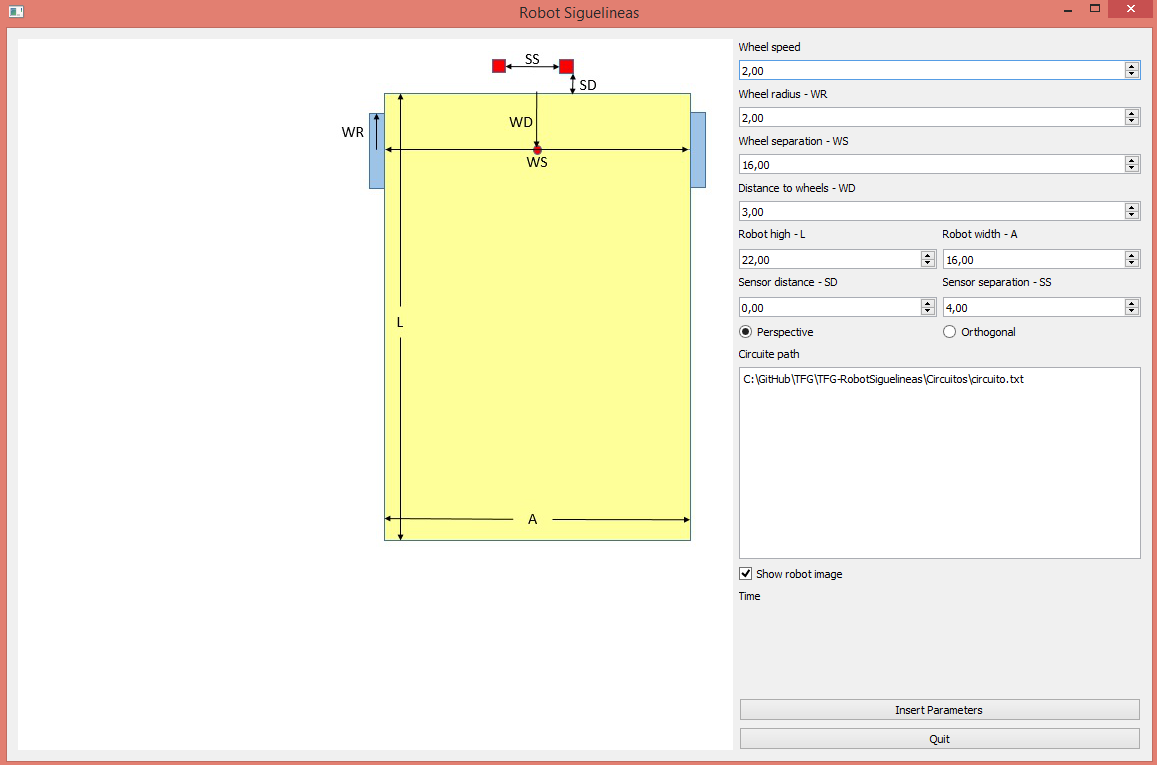
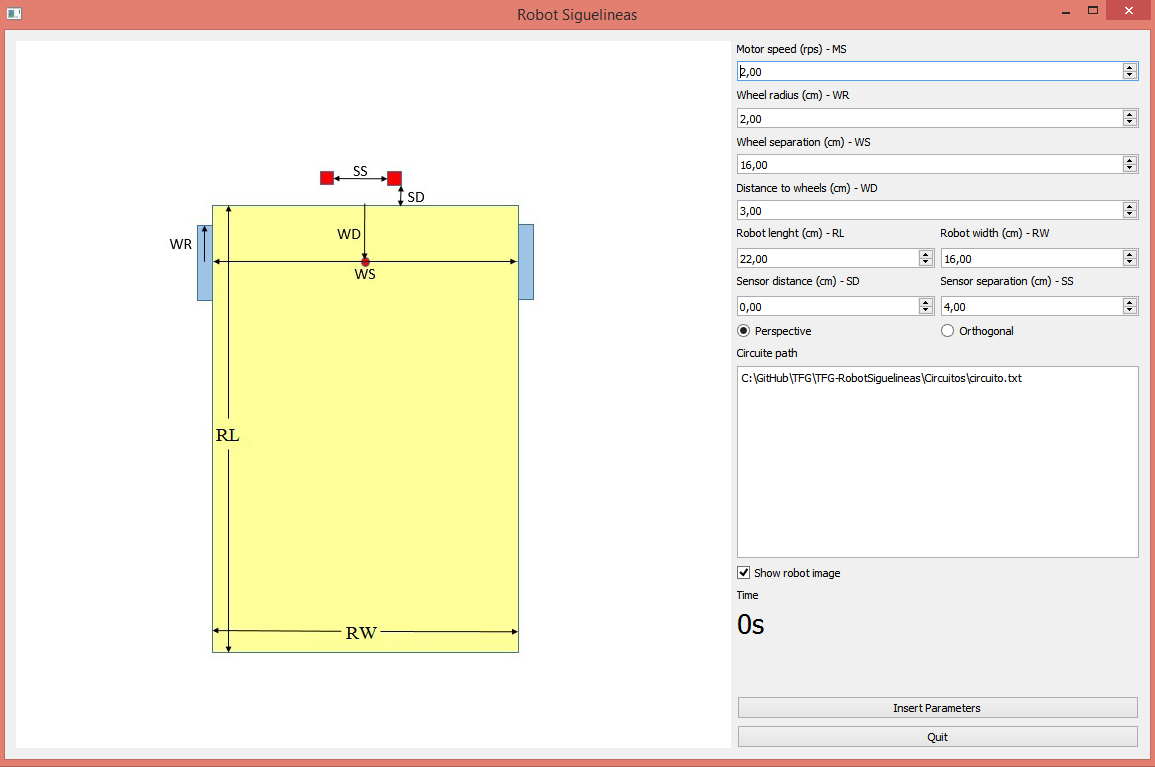
Foto actualizada completa

diff --git a/RobotSiguelineas/ui_mainwindow.h b/RobotSiguelineas/ui_mainwindow.h
@@ -302,14 +302,14 @@ public:
     void retranslateUi(QMainWindow *MainWindow)
     {
         MainWindow->setWindowTitle(QApplication::translate("MainWindow", "Robot Siguelineas", Q_NULLPTR));
-        wheelSpeedLabel->setText(QApplication::translate("MainWindow", "Wheel speed", Q_NULLPTR));
-        wheelRadiusLabel->setText(QApplication::translate("MainWindow", "Wheel radius - WR", Q_NULLPTR));
-        wheelSeparationLabel->setText(QApplication::translate("MainWindow", "Wheel separation - WS", Q_NULLPTR));
-        distanceToWheelsLabel->setText(QApplication::translate("MainWindow", "Distance to wheels - WD", Q_NULLPTR));
-        robotHighLabel->setText(QApplication::translate("MainWindow", "Robot high - L", Q_NULLPTR));
-        robotWidthLabel->setText(QApplication::translate("MainWindow", "Robot width - A", Q_NULLPTR));
-        sensorDistanceLabel->setText(QApplication::translate("MainWindow", "Sensor distance - SD", Q_NULLPTR));
-        sensorSeparationLabel->setText(QApplication::translate("MainWindow", "Sensor separation - SS", Q_NULLPTR));
+        wheelSpeedLabel->setText(QApplication::translate("MainWindow", "Motor speed (rps) - MS", Q_NULLPTR));
+        wheelRadiusLabel->setText(QApplication::translate("MainWindow", "Wheel radius (cm) - WR", Q_NULLPTR));
+        wheelSeparationLabel->setText(QApplication::translate("MainWindow", "Wheel separation (cm) - WS", Q_NULLPTR));
+        distanceToWheelsLabel->setText(QApplication::translate("MainWindow", "Distance to wheels (cm) - WD", Q_NULLPTR));
+        robotHighLabel->setText(QApplication::translate("MainWindow", "Robot lenght (cm) - RL", Q_NULLPTR));
+        robotWidthLabel->setText(QApplication::translate("MainWindow", "Robot width (cm) - RW", Q_NULLPTR));
+        sensorDistanceLabel->setText(QApplication::translate("MainWindow", "Sensor distance (cm) - SD", Q_NULLPTR));
+        sensorSeparationLabel->setText(QApplication::translate("MainWindow", "Sensor separation (cm) - SS", Q_NULLPTR));
         perspectiveRadioButton->setText(QApplication::translate("MainWindow", "Perspective", Q_NULLPTR));
         orthogonalRadioButton->setText(QApplication::translate("MainWindow", "Orthogonal", Q_NULLPTR));
         circuitePathLabel->setText(QApplication::translate("MainWindow", "Circuite path", Q_NULLPTR));
